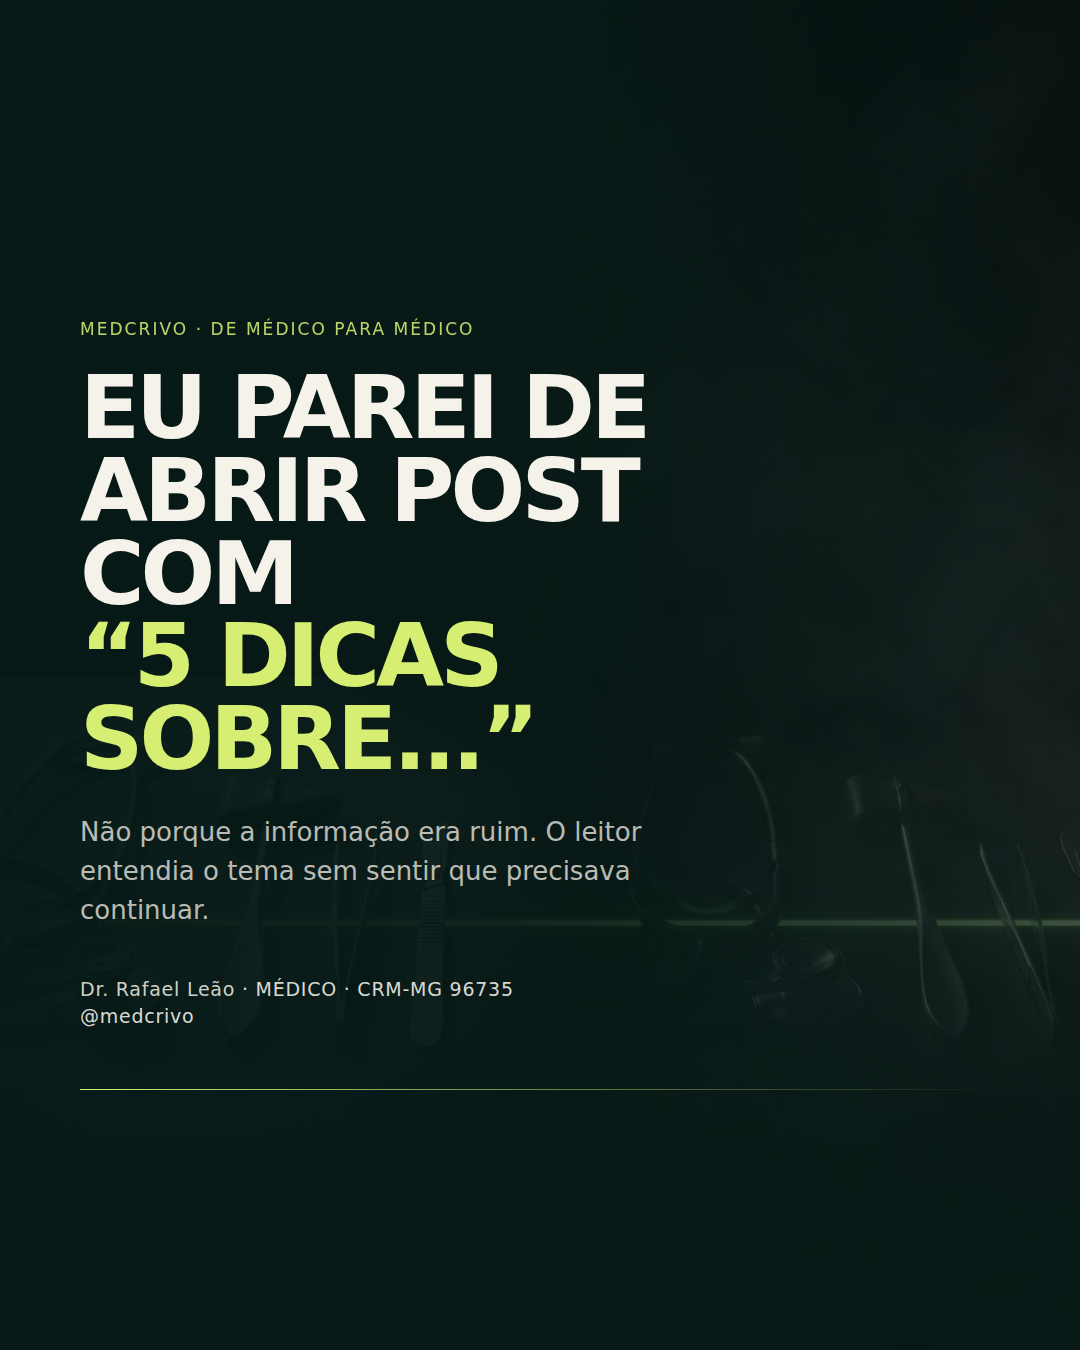
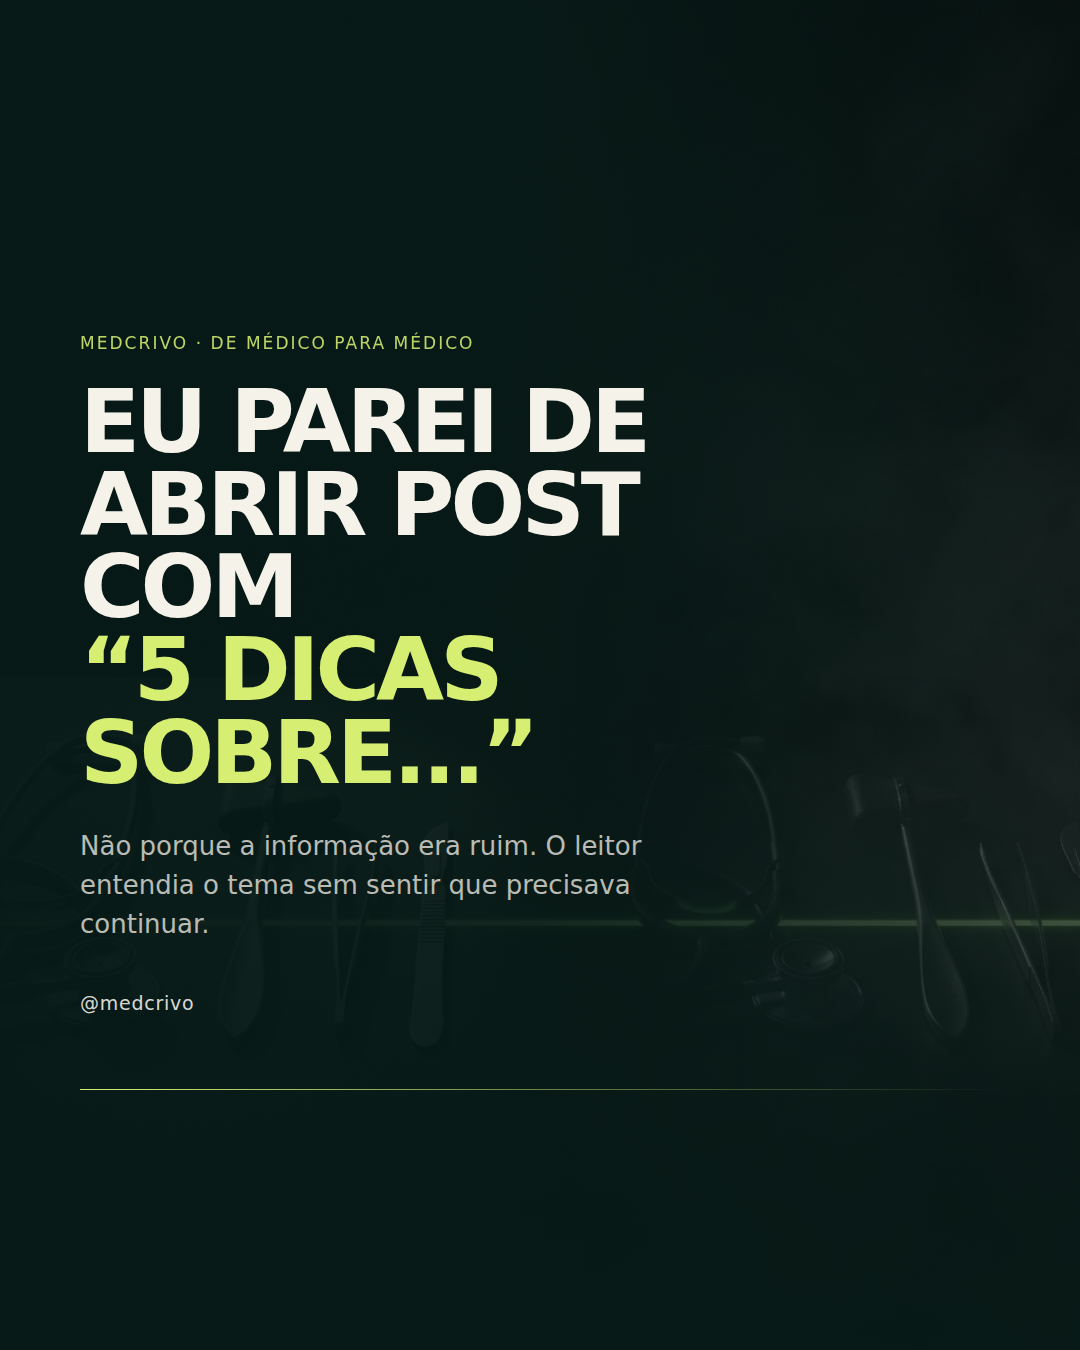
fix(editorial): remove identificação do teste E2

Changed region(s): [[0.0611, 0.2178, 0.6111, 0.7778], [0.3361, 0.7156, 0.4583, 0.7467], [0.2444, 0.7156, 0.3056, 0.7467]]

diff --git a/assets/posts/e2-static/slide.html b/assets/posts/e2-static/slide.html
@@ -98,7 +98,7 @@
     <p class="serie">MedCrivo · De médico para médico</p>
     <h1 class="head">Eu parei de abrir post com<br><em>“5 dicas sobre...”</em></h1>
     <p class="sub">Não porque a informação era ruim. O leitor entendia o tema sem sentir que precisava continuar.</p>
-    <p class="sig"><strong>Dr. Rafael Leão</strong> · MÉDICO · CRM-MG 96735<br>@medcrivo</p>
+    <p class="sig">@medcrivo</p>
   </div>
 </div>
 </body>
